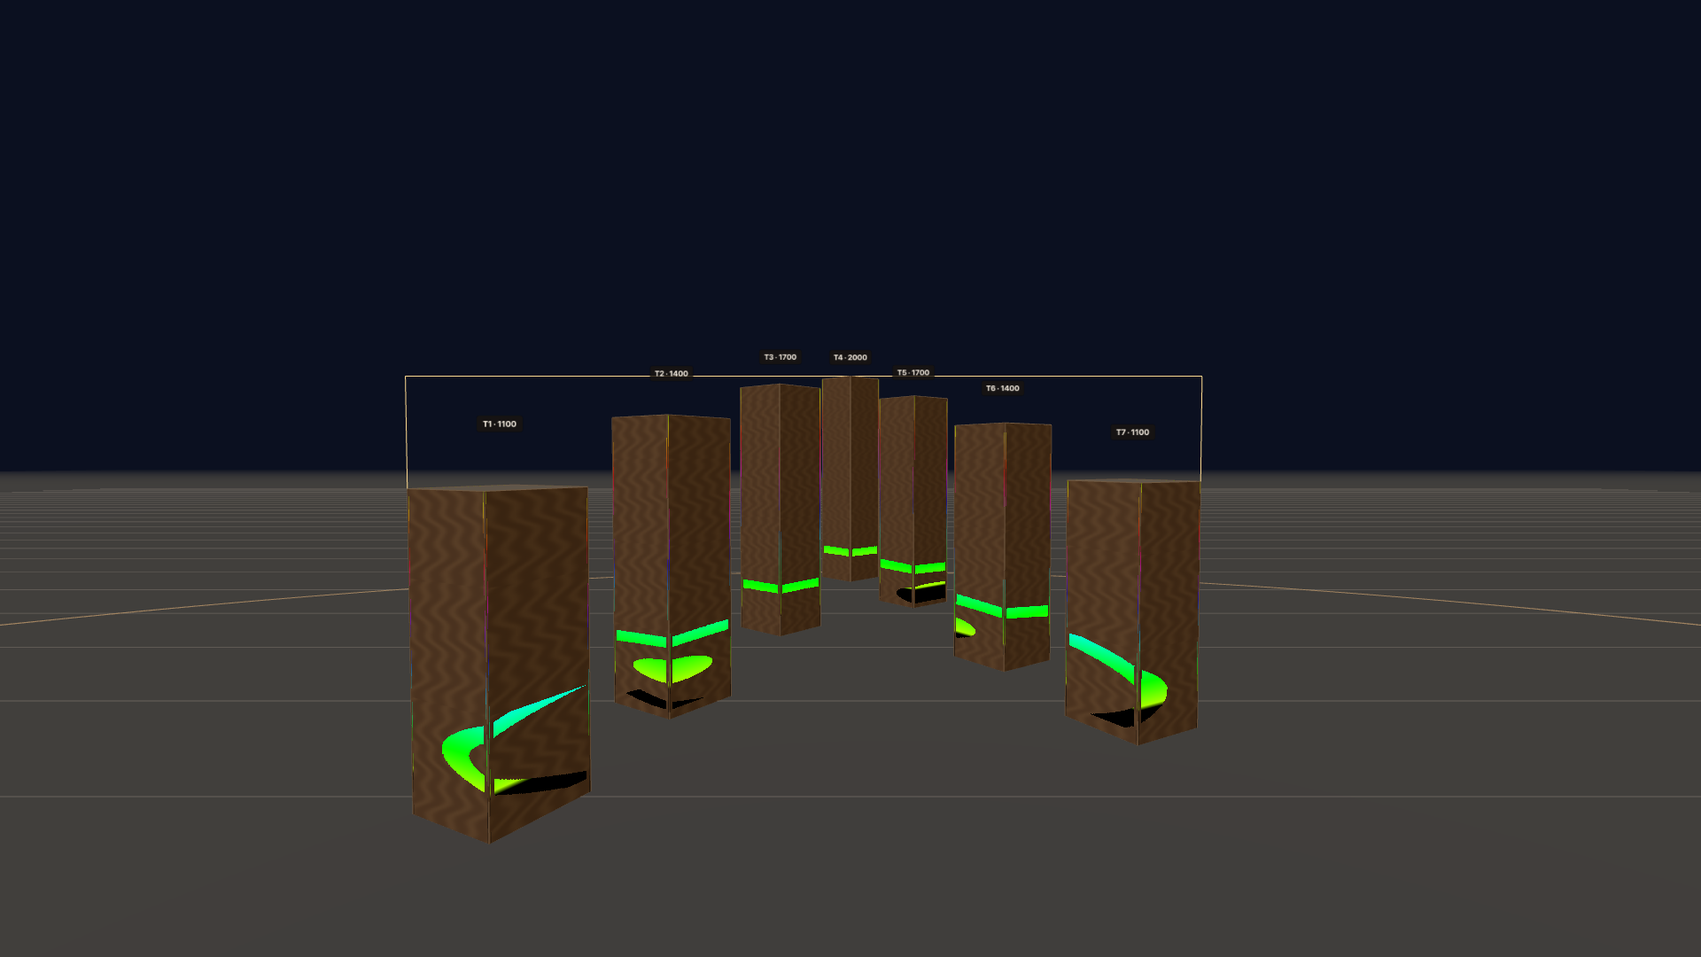
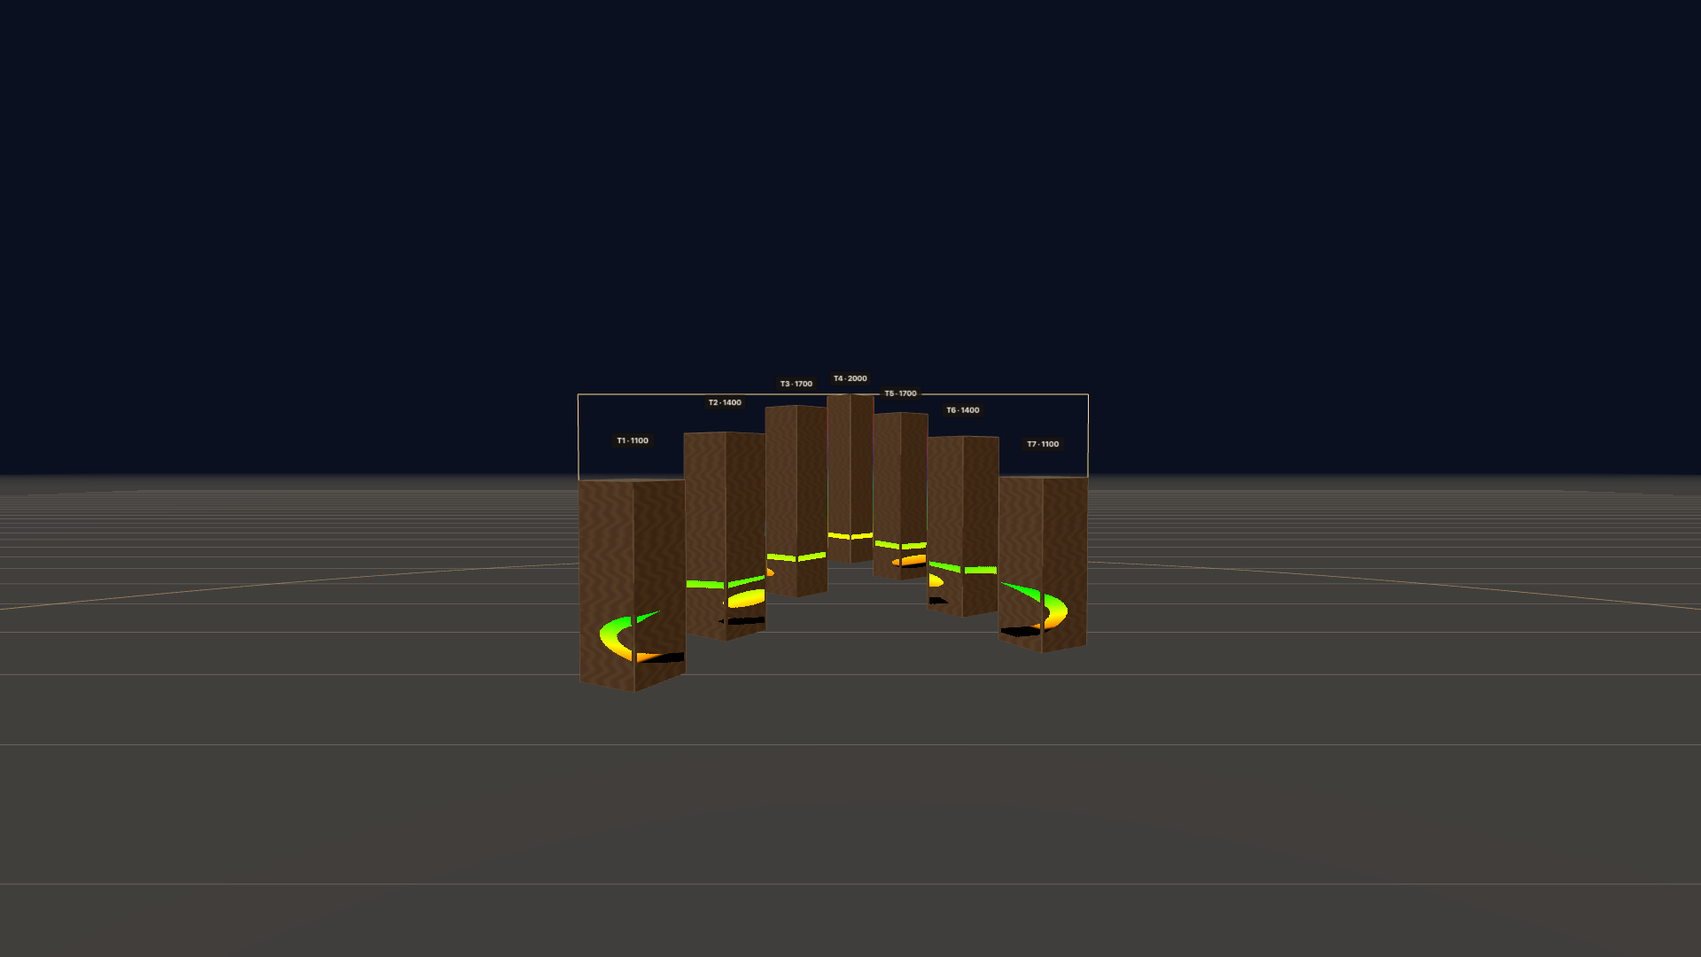
Bench defaults to 0 until known; projection maker mirrors statue 1, loads either JSON
The bench placeholder (3000 mm) made the projection maker show gaps the
artist never saw: her file has no bench, so her eye is at the centre and
the towers touch. Both tools now default the bench to 0; the handoff file
is regenerated. The projection maker gets a bench control, one Load button
for the layout file or its own project file (which now embeds the layout),
reads the layout tool's saved state on the same site, and statue 2's
viewpoints mirror statue 1's picture and settings unless switched off.

Changed region(s): [[0.0625, 0.3667, 0.7188, 0.8861], [0.8438, 0.6111, 0.9375, 0.6417], [0.375, 0.3667, 0.4062, 0.3972]]

diff --git a/tools/projection_maker.html b/tools/projection_maker.html
@@ -72,12 +72,15 @@ body.shot .panel, body.shot .views, body.shot #hint, body.shot #btnUnfold { disp
 
   <h2>Layout</h2>
   <div id="layoutInfo" class="note"></div>
-  <div class="bar"><button id="btnLoadLayout" class="small">Load layout JSON</button><input id="layoutIn" type="file" accept="application/json,.json" hidden></div>
+  <div class="bar"><button id="btnLoadLayout" class="small">Load JSON (layout file or project file)</button><input id="layoutIn" type="file" accept="application/json,.json" hidden></div>
+  <div id="layoutParams"></div>
+  <div class="note">The bench diameter comes from the layout file (0 = no bench, eyes at the centre, which is how the artist's own file was made). Set it here or in the layout tool; both must agree.</div>
 
   <h2>Wood and faces</h2>
   <div id="woodParams"></div>
 
   <h2>Viewpoints</h2>
+  <div class="check"><input id="same2" type="checkbox" checked><label for="same2">Statue 2 uses statue 1's pictures and settings (mirrored)</label></div>
   <div id="povs"></div>
 
   <h2>Islands and pieces</h2>
@@ -111,8 +114,18 @@ body.shot .panel, body.shot .views, body.shot #hint, body.shot #btnUnfold { disp
   if (q.get('shot') === '1') document.body.classList.add('shot');
 
   // ---------- The layout: from layout/statue-layout.json (fetched on a server), a loaded file, or this embedded copy ----------
-  const DEFAULT_LAYOUT = {"side_mm":400,"unlit_base_mm":150,"leds_per_m":60,"bench_diameter_mm":3000,"eye_mm":1200,"fov_deg":100,"circle_diameter_mm":18000,"towers":[{"statue":1,"name":"T1","height_mm":1100,"x_mm":-1207,"y_mm":3960},{"statue":1,"name":"T2","height_mm":1400,"x_mm":-882,"y_mm":5031},{"statue":1,"name":"T3","height_mm":1700,"x_mm":-496,"y_mm":6574},{"statue":1,"name":"T4","height_mm":2000,"x_mm":0,"y_mm":8717},{"statue":1,"name":"T5","height_mm":1700,"x_mm":526,"y_mm":7485},{"statue":1,"name":"T6","height_mm":1400,"x_mm":908,"y_mm":5767},{"statue":1,"name":"T7","height_mm":1100,"x_mm":1275,"y_mm":4727},{"statue":2,"name":"T1","height_mm":1100,"x_mm":1207,"y_mm":-3960},{"statue":2,"name":"T2","height_mm":1400,"x_mm":882,"y_mm":-5031},{"statue":2,"name":"T3","height_mm":1700,"x_mm":496,"y_mm":-6574},{"statue":2,"name":"T4","height_mm":2000,"x_mm":0,"y_mm":-8717},{"statue":2,"name":"T5","height_mm":1700,"x_mm":-526,"y_mm":-7485},{"statue":2,"name":"T6","height_mm":1400,"x_mm":-908,"y_mm":-5767},{"statue":2,"name":"T7","height_mm":1100,"x_mm":-1275,"y_mm":-4727}]};
+  const DEFAULT_LAYOUT = {"side_mm":400,"unlit_base_mm":150,"leds_per_m":60,"bench_diameter_mm":0,"eye_mm":1200,"fov_deg":100,"circle_diameter_mm":18000,"towers":[{"statue":1,"name":"T1","height_mm":1100,"x_mm":-1207,"y_mm":3960},{"statue":1,"name":"T2","height_mm":1400,"x_mm":-882,"y_mm":5031},{"statue":1,"name":"T3","height_mm":1700,"x_mm":-496,"y_mm":6574},{"statue":1,"name":"T4","height_mm":2000,"x_mm":0,"y_mm":8717},{"statue":1,"name":"T5","height_mm":1700,"x_mm":526,"y_mm":7485},{"statue":1,"name":"T6","height_mm":1400,"x_mm":908,"y_mm":5767},{"statue":1,"name":"T7","height_mm":1100,"x_mm":1275,"y_mm":4727},{"statue":2,"name":"T1","height_mm":1100,"x_mm":1207,"y_mm":-3960},{"statue":2,"name":"T2","height_mm":1400,"x_mm":882,"y_mm":-5031},{"statue":2,"name":"T3","height_mm":1700,"x_mm":496,"y_mm":-6574},{"statue":2,"name":"T4","height_mm":2000,"x_mm":0,"y_mm":-8717},{"statue":2,"name":"T5","height_mm":1700,"x_mm":-526,"y_mm":-7485},{"statue":2,"name":"T6","height_mm":1400,"x_mm":-908,"y_mm":-5767},{"statue":2,"name":"T7","height_mm":1100,"x_mm":-1275,"y_mm":-4727}]};
   let layout = null, layoutSource = 'built-in copy of layout/statue-layout.json';
+  function layoutFromStore(P) {                     // the layout tool's saved params (same origin on GitHub Pages); needs hand-placed positions
+    const F = P && P.free_positions_mm; if (!F || !Array.isArray(F.statue1) || F.statue1.length !== 7) return null;
+    const h1 = P.heights_mm, h2 = (P.statue2 && P.statue2.heights_mm) || h1;
+    const s2 = P.statue2 ? F.statue2 : F.statue1.map(([x, y]) => [-x, -y]);
+    const towers = [];
+    F.statue1.forEach(([x, y], i) => towers.push({ statue: 1, name: 'T' + (i + 1), height_mm: h1[i], x_mm: x, y_mm: y }));
+    s2.forEach(([x, y], i) => towers.push({ statue: 2, name: 'T' + (i + 1), height_mm: h2[i], x_mm: x, y_mm: y }));
+    return { side_mm: P.side_mm || 400, unlit_base_mm: (P.leds && P.leds.unlit_base_mm) || 150, leds_per_m: (P.leds && P.leds.per_m) || 60, bench_diameter_mm: typeof P.bench_diameter_mm === 'number' ? P.bench_diameter_mm : 0,
+      eye_mm: (P.viewer && P.viewer.eye_mm) || 1200, fov_deg: (P.viewer && P.viewer.fov_deg) || 100, circle_diameter_mm: P.circle_diameter_mm || 18000, towers };
+  }
   function layoutFromHandoff(o) {                   // led-over-rj245/statue-layout (any version) → compact layout
     const P = o.params || {}, L = o.layout || {};
     const towers = [];
@@ -131,6 +144,7 @@ body.shot .panel, body.shot .views, body.shot #hint, body.shot #btnUnfold { disp
     speed: 0.04,           // rainbow cycles per second
     brightness: 1.0,
     labels: true,
+    same2: true,           // statue 2's viewpoints mirror statue 1's: same picture, insets, eye, distance and field of view
     povs: [
       { key: 'bench1', label: 'Bench · statue 1', statue: 0, kind: 'bench', eye: 1200, fov: 100, dist: 0 },
       { key: 'bench2', label: 'Bench · statue 2', statue: 1, kind: 'bench', eye: 1200, fov: 100, dist: 0 },
@@ -175,13 +189,15 @@ body.shot .panel, body.shot .views, body.shot #hint, body.shot #btnUnfold { disp
   }
   // A viewpoint: position, forward (horizontal), right, up. Bench seats face their statue from the bench edge;
   // back viewpoints stand on the apex axis behind the apex tower's outer corner, looking at the centre.
+  const eff = p => (state.same2 && p.statue === 1) ? state.povs.find(x => x.kind === p.kind && x.statue === 0) : p;   // settings source
   function povPose(p) {
+    const e = eff(p);
     const sgn = p.statue === 0 ? -1 : 1;            // statue 1 lies towards −z
     const F = new THREE.Vector3(0, 0, p.kind === 'bench' ? sgn : -sgn);
     let z;
     if (p.kind === 'bench') z = sgn * (layout.bench_diameter_mm / 2000);   // the seat facing a statue is on that statue's side of the centre
-    else { const apex = towers.find(t => t.statue === p.statue && t.name === 'T4'); z = sgn * (Math.hypot(apex.x, apex.z) + HALF() + p.dist / 1000); }
-    const pos = new THREE.Vector3(0, p.eye / 1000, z);
+    else { const apex = towers.find(t => t.statue === p.statue && t.name === 'T4'); z = sgn * (Math.hypot(apex.x, apex.z) + HALF() + e.dist / 1000); }
+    const pos = new THREE.Vector3(0, e.eye / 1000, z);
     const Rt = new THREE.Vector3().crossVectors(F, Y);
     return { pos, F, Rt, U: Y.clone(), p };
   }
@@ -190,7 +206,7 @@ body.shot .panel, body.shot .views, body.shot #hint, body.shot #btnUnfold { disp
   function povBox(p) {
     const pose = povPose(p); let x0 = Infinity, x1 = -Infinity, y0 = Infinity, y1 = -Infinity;
     faces.filter(f => f.povKey === p.key).forEach(f => f.corners.forEach(c => { const [sx, sy, d] = project(pose, c); if (d <= 0.05) return; x0 = Math.min(x0, sx); x1 = Math.max(x1, sx); y0 = Math.min(y0, sy); y1 = Math.max(y1, sy); }));
-    const bw = x1 - x0, bh = y1 - y0, I = p.insets;
+    const bw = x1 - x0, bh = y1 - y0, I = eff(p).insets;
     return { pose, full: [x0, y0, x1, y1], x0: x0 + bw * I.l, x1: x1 - bw * I.r, y0: y0 + bh * I.b, y1: y1 - bh * I.t };
   }
 
@@ -277,7 +293,7 @@ body.shot .panel, body.shot .views, body.shot #hint, body.shot #btnUnfold { disp
   function faceMask(f, res) {
     const w = W(), h = f.tower.h, cols = Math.max(2, Math.round(w * 1000 / res)), rows = Math.max(2, Math.round(h * 1000 / res));
     const m = new Uint8Array(cols * rows);
-    const p = state.povs.find(p => p.key === f.povKey); const img = p.image;
+    const p = state.povs.find(p => p.key === f.povKey); const img = eff(p).image;
     if (!img) return { cols, rows, data: m, res };
     const box = povBox(p), pose = box.pose, border = state.border / 1000, unlit = layout.unlit_base_mm / 1000;
     const bw = box.x1 - box.x0, bh = box.y1 - box.y0;
@@ -440,7 +456,7 @@ body.shot .panel, body.shot .views, body.shot #hint, body.shot #btnUnfold { disp
   for (let k = 0; k < 4; k++) persons.push(makePerson());
 
   const maskCache = new Map();                      // "towerIdx:fi" → { key, mask, analysis }; a slider change only recomputes the faces it touches
-  const maskKey = f => { const p = state.povs.find(p => p.key === f.povKey); return JSON.stringify([p.key, p.dist, p.eye, p.insets, p.image ? [p.image.name, p.image.w, p.image.h] : null, state.border, layout.side_mm, layout.unlit_base_mm, layout.bench_diameter_mm, f.tower.x, f.tower.z, f.tower.h]); };
+  const maskKey = f => { const p = eff(state.povs.find(p => p.key === f.povKey)); return JSON.stringify([p.key, p.dist, p.eye, p.insets, p.image ? [p.image.name, p.image.w, p.image.h] : null, state.border, layout.side_mm, layout.unlit_base_mm, layout.bench_diameter_mm, f.tower.x, f.tower.z, f.tower.h]); };
   let ledTextures = [];                             // one 1 × N RGBA texture per tower, updated every frame by the animation
   function build() {
     dispose(towersGroup); towersGroup.clear(); labels.length = 0; ledTextures = [];
@@ -513,7 +529,7 @@ body.shot .panel, body.shot .views, body.shot #hint, body.shot #btnUnfold { disp
   function droneHome() { const k = Math.max(1, R() / 4); camDrone.position.set(5.2 * k, 6.2 * k, 7.6 * k); controls.target.set(0, 0.5, 0); controls.update(); }
   function resetPov() {
     const p = state.povs.find(p => p.key === view); if (!p) return;
-    const pose = povPose(p); camPov.position.copy(pose.pos); camPov.fov = 2 * Math.atan(Math.tan(p.fov / 2 / DEG) / camPov.aspect) * DEG; camPov.updateProjectionMatrix();
+    const pose = povPose(p); camPov.position.copy(pose.pos); camPov.fov = 2 * Math.atan(Math.tan(eff(p).fov / 2 / DEG) / camPov.aspect) * DEG; camPov.updateProjectionMatrix();
     const apex = towers.find(t => t.statue === p.statue && t.name === 'T4');
     const target = new THREE.Vector3(apex.x, apex.h * 0.5, apex.z); const dir = target.sub(pose.pos).normalize();
     look.target.copy(pose.pos).addScaledVector(dir, 0.5); look.update();
@@ -605,6 +621,9 @@ body.shot .panel, body.shot .views, body.shot #hint, body.shot #btnUnfold { disp
   }
   function setDemo(p) { const c = demoSmiley(); const img = new Image(); img.src = c.toDataURL('image/png'); const m = maskFromRaster(c); p.image = Object.assign(m, { name: 'demo smiley', type: 'raster', source: img.src }); }
   state.povs.forEach(povPanel);
+  const showSame2 = () => { document.querySelectorAll('.pov').forEach(el => { const p = state.povs.find(p => p.key === el.dataset.key); el.hidden = state.same2 && p.statue === 1; }); $('same2').checked = state.same2; };
+  showSame2();
+  $('same2').addEventListener('change', () => { state.same2 = $('same2').checked; if (!state.same2) { [0, 1].forEach(k => { const a = state.povs[k], b = state.povs.find(x => x.kind === a.kind && x.statue === 1); b.image = a.image; b.insets = Object.assign({}, a.insets); b.eye = a.eye; b.dist = a.dist; b.fov = a.fov; Object.keys(inputs).filter(key => key.startsWith(b.key)).forEach(key => inputs[key]()); showPicture(b); }); } showSame2(); build(); });
   // exports
   state.povs.forEach(p => { const o = document.createElement('option'); o.value = p.key; o.textContent = p.label; $('expPov').appendChild(o); });
   const fillTowerSelect = () => { $('expTower').innerHTML = ''; towers.forEach(t => { const o = document.createElement('option'); o.value = t.idx; o.textContent = `Statue ${t.statue + 1} · ${t.name}`; $('expTower').appendChild(o); }); };
@@ -619,21 +638,35 @@ body.shot .panel, body.shot .views, body.shot #hint, body.shot #btnUnfold { disp
   const setFolded = f => { $('panel').classList.toggle('folded', f); $('btnUnfold').hidden = !f; };
   $('btnFold').addEventListener('click', () => setFolded(true)); $('btnUnfold').addEventListener('click', () => setFolded(false));
   // layout file
-  function useLayout(o, source) { layout = o; layoutSource = source; $('layoutInfo').textContent = `${source}: 14 towers, side ${layout.side_mm} mm, bench Ø ${layout.bench_diameter_mm} mm, eye ${layout.eye_mm} mm.`; fillTowerSelect && towers.length; build(); fillTowerSelect(); }
+  function useLayout(o, source) {
+    layout = o; layoutSource = source; maskCache.clear();
+    if (inputs.bench) inputs.bench();
+    $('layoutInfo').textContent = `${source}: 14 towers, side ${layout.side_mm} mm, bench Ø ${layout.bench_diameter_mm} mm, layout eye ${layout.eye_mm} mm.`;
+    state.povs.filter(p => p.kind === 'bench').forEach(p => { p.eye = layout.eye_mm; inputs[p.key + '_eye'] && inputs[p.key + '_eye'](); });
+    build(); fillTowerSelect();
+  }
+  paramRow($('layoutParams'), 'bench', 'Bench diameter at the centre', 0, 8000, 50, 'mm', () => layout ? layout.bench_diameter_mm : 0, v => { layout.bench_diameter_mm = v; maskCache.clear(); }, () => { $('layoutInfo').textContent = `${layoutSource}: 14 towers, side ${layout.side_mm} mm, bench Ø ${layout.bench_diameter_mm} mm, layout eye ${layout.eye_mm} mm.`; rebuildSoon(); });
+  // One button loads either file: the layout tool's export (led-over-rj245/statue-layout) or this page's project file.
+  function loadAnyJson(txt, name) {
+    const o = JSON.parse(txt);
+    if (o.format === 'led-over-rj245/statue-layout') { useLayout(layoutFromHandoff(o), name); return Promise.resolve('layout'); }
+    if (o.format === PROJ_FORMAT) { if (o.layout && o.layout.towers) useLayout(o.layout, name + ' (embedded layout)'); return applyProject(o).then(() => 'project'); }
+    throw new Error('not a layout file or a projection project');
+  }
   $('btnLoadLayout').addEventListener('click', () => $('layoutIn').click());
-  $('layoutIn').addEventListener('change', () => { const f = $('layoutIn').files[0]; if (!f) return; const rd = new FileReader(); rd.onload = () => { try { useLayout(layoutFromHandoff(JSON.parse(rd.result)), f.name); } catch (e) { $('layoutInfo').textContent = 'Could not load: ' + e.message; } }; rd.readAsText(f); $('layoutIn').value = ''; });
+  $('layoutIn').addEventListener('change', () => { const f = $('layoutIn').files[0]; if (!f) return; const rd = new FileReader(); rd.onload = () => { loadAnyJson(rd.result, f.name).then(k => { $('layoutInfo').textContent += k === 'project' ? ' Project loaded.' : ''; }).catch(e => { $('layoutInfo').textContent = 'Could not load: ' + e.message; }); }; rd.readAsText(f); $('layoutIn').value = ''; });
 
   // ---------- Project file and browser store ----------
   const PROJ_FORMAT = 'led-over-rj245/projection-project';
   function projectObject() {
-    return { format: PROJ_FORMAT, version: 1, generated: new Date().toISOString(), border_mm: state.border, thickness_mm: state.thickness, animation: animName, speed: state.speed, brightness: state.brightness, night: state.night,
+    return { format: PROJ_FORMAT, version: 1, generated: new Date().toISOString(), layout, layout_source: layoutSource, statue2_mirrors_statue1: state.same2, border_mm: state.border, thickness_mm: state.thickness, animation: animName, speed: state.speed, brightness: state.brightness, night: state.night,
       viewpoints: state.povs.map(p => ({ key: p.key, distance_mm: p.dist, eye_mm: p.eye, fov_deg: p.fov, insets: p.insets, picture: p.image ? { name: p.image.name, type: p.image.type, source: p.image.source } : null })) };
   }
   function applyProject(o) {
     if (!o || o.format !== PROJ_FORMAT) throw new Error('not a ' + PROJ_FORMAT + ' file');
     const num = (v, d) => typeof v === 'number' && !isNaN(v) ? v : d;
     state.border = num(o.border_mm, state.border); state.thickness = num(o.thickness_mm, state.thickness); state.speed = num(o.speed, state.speed); state.brightness = num(o.brightness, state.brightness);
-    if (typeof o.night === 'boolean') state.night = o.night; if (o.animation && ANIMATIONS[o.animation]) { animName = o.animation; $('anim').value = animName; }
+    if (typeof o.night === 'boolean') state.night = o.night; if (typeof o.statue2_mirrors_statue1 === 'boolean') state.same2 = o.statue2_mirrors_statue1; if (o.animation && ANIMATIONS[o.animation]) { animName = o.animation; $('anim').value = animName; }
     const pending = [];
     (o.viewpoints || []).forEach(v => {
       const p = state.povs.find(p => p.key === v.key); if (!p) return;
@@ -645,22 +678,24 @@ body.shot .panel, body.shot .views, body.shot #hint, body.shot #btnUnfold { disp
       }
     });
     Object.values(inputs).forEach(f => f()); applyNight();
-    return Promise.all(pending).then(() => { state.povs.forEach(p => showPicture(p)); build(); });
+    return Promise.all(pending).then(() => { state.povs.forEach(p => showPicture(p)); if (typeof showSame2 === 'function') showSame2(); build(); });
   }
   const STORE = 'projectionProject';
   function saveSettings() { try { localStorage.setItem(STORE, JSON.stringify(projectObject())); } catch (e) { /* too big or unavailable */ } }
   $('btnProjExport').addEventListener('click', () => { const txt = JSON.stringify(projectObject(), null, 2); const a = document.createElement('a'); a.download = `projection-project-${new Date().toISOString().slice(0, 10)}.json`; a.href = URL.createObjectURL(new Blob([txt], { type: 'application/json' })); a.click(); $('projMsg').textContent = 'Exported.'; });
   $('btnProjLoad').addEventListener('click', () => $('projIn').click());
-  $('projIn').addEventListener('change', () => { const f = $('projIn').files[0]; if (!f) return; const rd = new FileReader(); rd.onload = () => { applyProject(JSON.parse(rd.result)).then(() => { $('projMsg').textContent = `Loaded ${f.name}.`; }).catch(e => { $('projMsg').textContent = 'Could not load: ' + e.message; }); }; rd.readAsText(f); $('projIn').value = ''; });
+  $('projIn').addEventListener('change', () => { const f = $('projIn').files[0]; if (!f) return; const rd = new FileReader(); rd.onload = () => { loadAnyJson(rd.result, f.name).then(() => { $('projMsg').textContent = `Loaded ${f.name}.`; }).catch(e => { $('projMsg').textContent = 'Could not load: ' + e.message; }); }; rd.readAsText(f); $('projIn').value = ''; });
 
   window.projDebug = { get faces() { return faces; }, faceMask, faceDxf, analyse, contours, povBox, state, get layout() { return layout; } };   // for tests and scripts
   // ---------- Start ----------
   applyNight();
   useLayout(DEFAULT_LAYOUT, layoutSource);
   droneHome(); resize(); render();
-  fetch('../layout/statue-layout.json').then(r => r.ok ? r.json() : null).then(o => { if (o) useLayout(layoutFromHandoff(o), 'layout/statue-layout.json'); }).catch(() => { /* file:// or offline: keep the built-in copy */ });
+  fetch('../layout/statue-layout.json').then(r => r.ok ? r.json() : null).then(o => { if (o && layoutSource.startsWith('built-in')) useLayout(layoutFromHandoff(o), 'layout/statue-layout.json'); }).catch(() => { /* file:// or offline: keep the built-in copy */ });
   let stored = null; try { stored = JSON.parse(localStorage.getItem(STORE) || 'null'); } catch (e) { stored = null; }
   if (stored && [...q.keys()].length === 0) applyProject(stored).catch(() => { /* stale store */ });
+  // On the same site as the layout tool, its saved state (hand-placed towers) is the freshest layout there is.
+  try { const lt = layoutFromStore(JSON.parse(localStorage.getItem('statueSettings') || 'null')); if (lt && [...q.keys()].length === 0) useLayout(lt, "the layout tool's saved state in this browser"); } catch (e) { /* none */ }
   if (q.get('demo') === '1') { state.povs.forEach(p => { setDemo(p); showPicture(p); }); build(); }
 })();
 </script>

diff --git a/tools/statue_render.html b/tools/statue_render.html
@@ -188,7 +188,7 @@ body.shot .panel, body.shot .views, body.shot #pad, body.shot #hint, body.shot #
     smin: num('smin', 1000), smax: num('smax', 3000), sopt: num('sopt', 3000),     // owner, 2026-10-21
     diam: num('d', 18000),
     clear: num('clear', 2350),          // smallest radius the viewer must have free at the centre
-    bench: num('bench', 3000),         // circular bench at the centre, mm; the audience sits on its edge facing out. PLACEHOLDER: the artist has not given the size
+    bench: num('bench', 0),            // circular bench at the centre, mm; the audience sits on its edge facing out. 0 until the artist gives the size (owner, 2026-10-21)
     mode: q.get('mode') === 'straight' ? 'straight' : 'touch',
     arm: num('arm', 25),
     eye: num('eye', 1200),               // owner, 2026-10-21: the audience sits

diff --git a/docs/strips_and_power/projection_maker.md b/docs/strips_and_power/projection_maker.md
@@ -24,6 +24,17 @@ reports wood islands, and exports one DXF per face.
   `layout/statue-layout.json` (fetched on GitHub Pages, a built-in copy as a fallback, or any
   loaded file) and only needs the towers' positions, heights, side, bench and eye. The artist
   edits placement in the layout tool and cut patterns here, so neither page duplicates the other.
+- **The bench diameter is a control here too, and both tools must agree** (owner, 2026-10-21: the
+  projection maker showed gaps that the layout tool did not, because the handoff file carried a
+  bench placeholder while the artist's file had none). On GitHub Pages the page also reads the
+  layout tool's saved state from the shared browser store when the towers were placed by hand, so
+  the two pages show the same statue without a file round trip. One Load button takes either the
+  layout file or this page's project file, and the project file embeds the layout it was made with.
+- **Statue 2's viewpoints mirror statue 1's by default** (owner, 2026-10-21: "if I upload a file
+  to one view it should look identical on the other view"). The bench and back viewpoints of
+  statue 2 take statue 1's picture, insets, eye, distance and field of view, and their panels are
+  hidden; unticking the switch copies the settings over and frees them. With a mirrored layout
+  the result is identical; with a decoupled layout it is the same picture on different towers.
 - **The back viewpoint's distance is measured behind the apex tower's outer corner, on the apex
   axis** (owner, 2026-10-21, chosen over the centre or the circle edge). Defaults: 3 m away,
   eye 1600 mm, field of view 100°, the same as the layout tool's eye view.

diff --git a/docs/strips_and_power/statue_geometry.md b/docs/strips_and_power/statue_geometry.md
@@ -123,8 +123,9 @@ the CAT5e length ([../data_link/cabling.md](../data_link/cabling.md)).
 
 A circular bench stands at the centre; the audience sits on its edge facing out, which is why
 the eye height is 1200 mm. The artist placed the towers before mentioning it. **Its diameter
-is not known yet**: the tool's default of 3000 mm is a placeholder (agent, 2026-10-21) that the
-owner must replace. Consequences in the tool:
+is not known yet**, so the default is 0 (eyes at the centre, exactly as the artist's own file was
+made) until the owner enters the size (changed 2026-10-21: a 3000 mm placeholder first stood here,
+and it made the projection maker show gaps the artist never saw). Consequences in the tool:
 - **One eye point per statue, on the bench edge, on the apex axis** (owner): the eye view has a
   button per statue, the figure stands at each eye point (the bench itself is not drawn), and
   the mural, the level-top heights, the gaps and the readout angles are all taken from that
